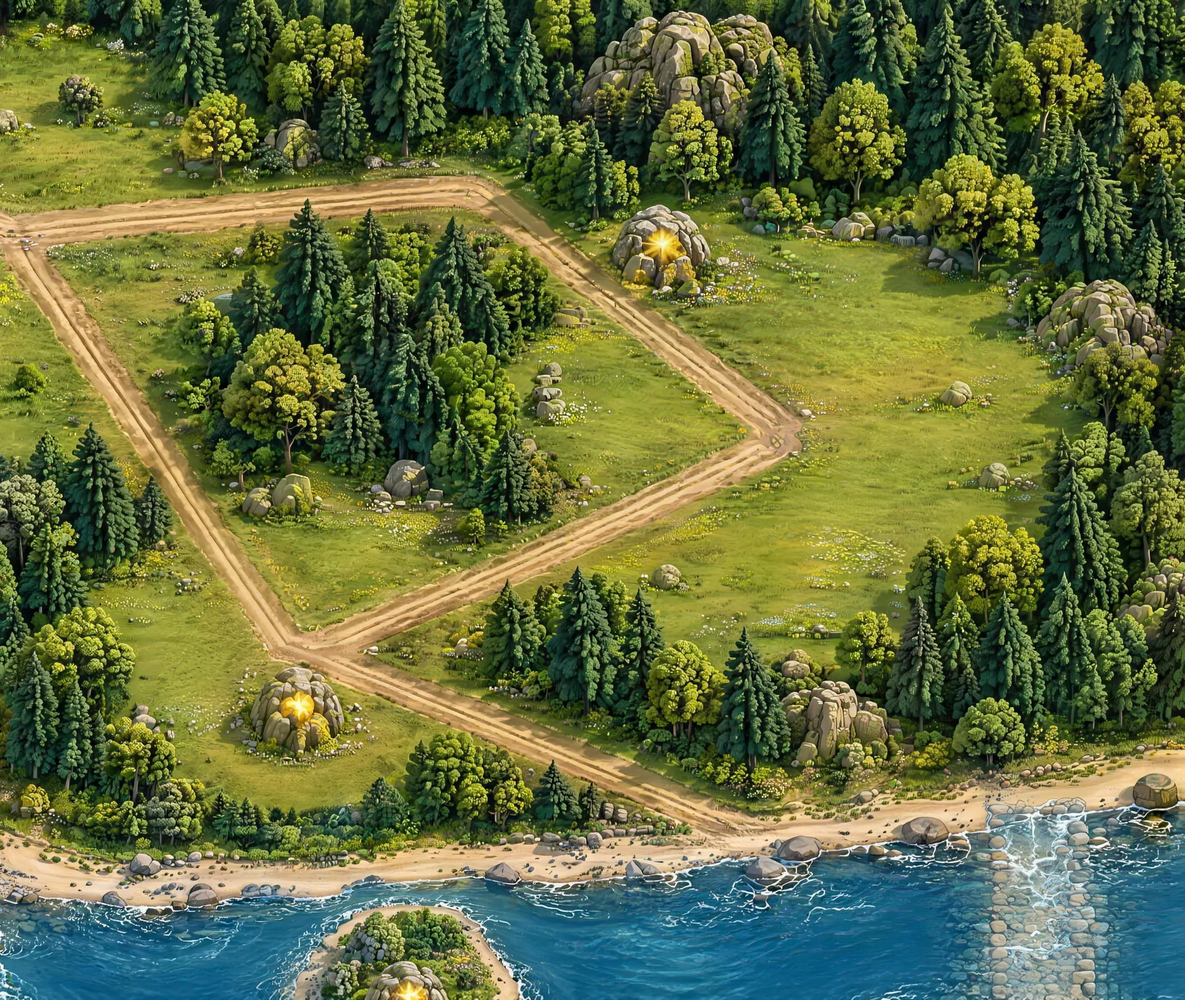
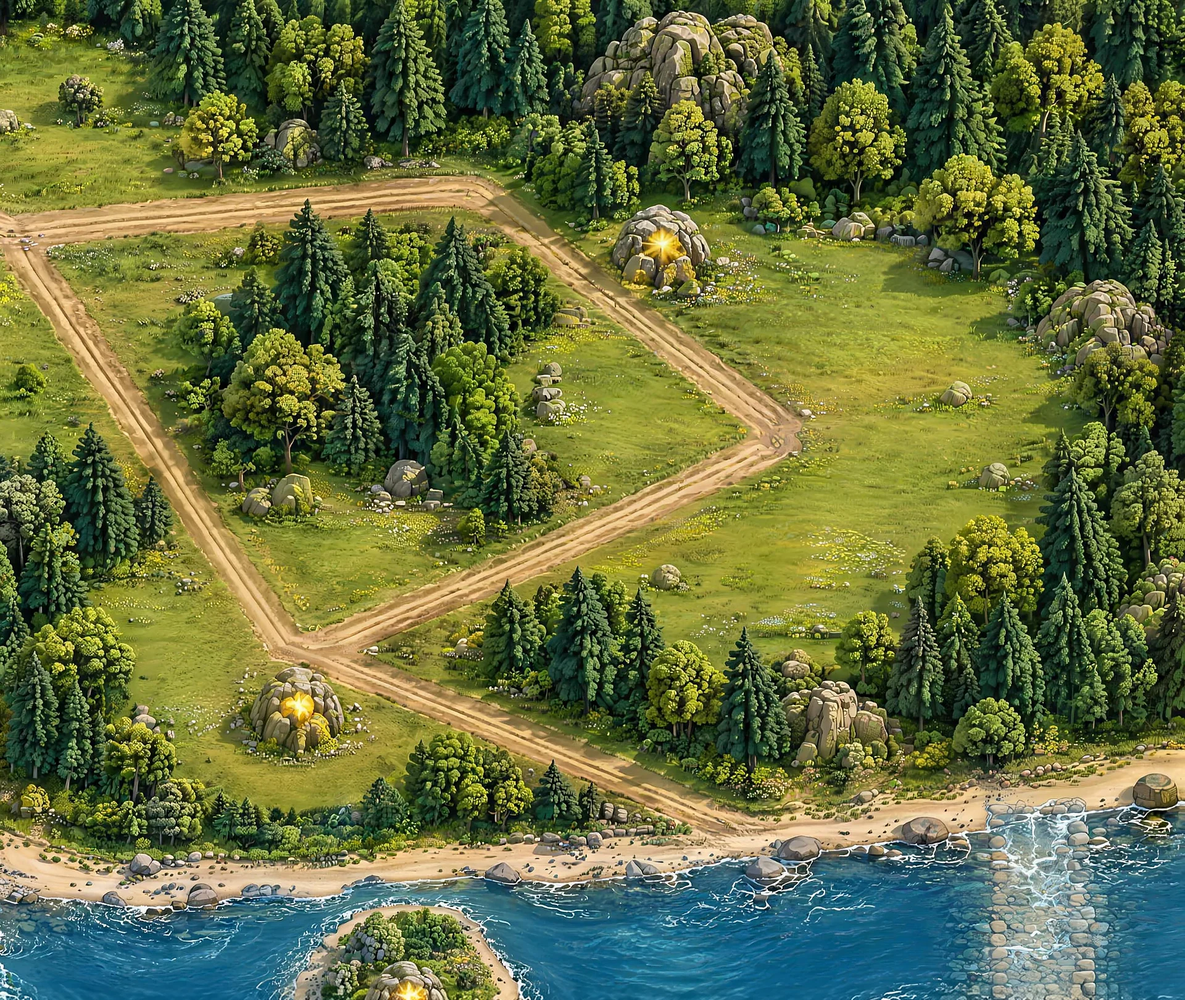
Online for up to 8 players, bridges at the crossings, Altar of the Myths, sharper map
- Lobby lists friends, host picks the total (computers fill free slots) and starts;
  stable per-tab ids keep slots on reconnect; eliminated players keep watching.
- Painted fords replaced by bridge sprites; only the deck is walkable.
- Central ruins hold the Altar of the Myths: capture it for gold, hold 8 min to win.
- Nav grid: open pockets inside forest closed; 8K map tiles on large screens.

Claude-Session: https://claude.ai/code/session_01FafVwhxwoacmC24jomjzsL

diff --git a/estrategia/prototype/index.html b/estrategia/prototype/index.html
@@ -190,7 +190,9 @@ const SPEED=.85;
 /* ---------- Assets ---------- */
 const SHEET={"villager":{"cw":136,"ch":177,"ax":63,"foot":175},"spear":{"cw":156,"ch":154,"ax":49,"foot":152},"spear3":{"cw":167,"ch":154,"ax":52,"foot":152},"archer":{"cw":134,"ch":180,"ax":57,"foot":178},"archer3":{"cw":122,"ch":167,"ax":47,"foot":165},"cav":{"cw":144,"ch":155,"ax":64,"foot":153},"legion":{"cw":170,"ch":155,"ax":58,"foot":153},"e-villager":{"cw":119,"ch":187,"ax":59,"foot":185},"e-spear":{"cw":181,"ch":154,"ax":52,"foot":152},"e-spear3":{"cw":180,"ch":154,"ax":51,"foot":152},"e-archer":{"cw":131,"ch":165,"ax":53,"foot":163},"e-archer3":{"cw":128,"ch":163,"ax":57,"foot":161},"e-lightcav":{"cw":174,"ch":177,"ax":88,"foot":175},"e-horsearcher":{"cw":163,"ch":167,"ax":81,"foot":165},"e-shaman":{"cw":141,"ch":177,"ax":66,"foot":175},"a-villager":{"cw":142,"ch":180,"ax":68,"foot":178},"a-spear":{"cw":170,"ch":154,"ax":50,"foot":152},"a-spear3":{"cw":171,"ch":154,"ax":50,"foot":152},"a-archer":{"cw":148,"ch":178,"ax":58,"foot":176},"a-archer3":{"cw":152,"ch":181,"ax":63,"foot":179},"a-khopesh":{"cw":169,"ch":158,"ax":54,"foot":156},"a-chariot":{"cw":174,"ch":179,"ax":80,"foot":177},"a-sunpriest":{"cw":210,"ch":203,"ax":47,"foot":201},"priestess":{"cw":147,"ch":202,"ax":62,"foot":200},"scorpion":{"cw":250,"ch":155,"ax":111,"foot":153},"ram":{"cw":187,"ch":154,"ax":89,"foot":152},"fishboat":{"cw":188,"ch":154,"ax":66,"foot":152},"galley":{"cw":166,"ch":161,"ax":77,"foot":159},"general":{"cw":242,"ch":161,"ax":121,"foot":159},"khan":{"cw":164,"ch":168,"ax":72,"foot":166},"queen":{"cw":223,"ch":198,"ax":56,"foot":196}};
 const BLD_KEYS=['tc','house','lumber','mine','farm','tower','barracks'];
-const IMG={}; const MAPT=[]; for (let j=0;j<2;j++) for (let i=0;i<3;i++) MAPT.push({k:'map8-'+i+j,i,j}); const NAMES=[...MAPT.map(t=>t.k+'.webp'),'map8-mini.jpg','ic-food.jpg','ic-wood.jpg','ic-gold.jpg','ic-pop.jpg','ic-build.jpg','ic-plan.jpg','key.jpg','gold2.webp','berry.webp','ground.webp','banner.webp',...['army','inf','arc','cav','area','city','retreat','stop','cancel','repeat','ageup','move','idle','plan2','rally','attack'].map(k=>'ui-'+k+'.webp'),'temple.webp','e-temple.webp','a-temple.webp','wall.webp','e-wall.webp','a-wall.webp','gate.webp','e-gate.webp','a-gate.webp','dock.webp','e-dock.webp','a-dock.webp',
+const IMG={}; // map tiles: sharper 8K set (4x2) on computers with a big screen, lighter 5.7K set (3x2) on phones
+const HDMAP=!matchMedia('(pointer:coarse)').matches && Math.max(screen.width,screen.height)*(devicePixelRatio||1)>=1600, MCOLS=HDMAP?4:3, MROWS=2;
+const MAPT=[]; for (let j=0;j<MROWS;j++) for (let i=0;i<MCOLS;i++) MAPT.push({k:(HDMAP?'map8hd-':'map8-')+i+j,i,j}); const NAMES=[...MAPT.map(t=>t.k+'.webp'),'map8-mini.jpg','ic-food.jpg','ic-wood.jpg','ic-gold.jpg','ic-pop.jpg','ic-build.jpg','ic-plan.jpg','key.jpg','gold2.webp','berry.webp','ground.webp','banner.webp','relic.webp','bridge-h.webp','bridge-v.webp',...['army','inf','arc','cav','area','city','retreat','stop','cancel','repeat','ageup','move','idle','plan2','rally','attack'].map(k=>'ui-'+k+'.webp'),'temple.webp','e-temple.webp','a-temple.webp','wall.webp','e-wall.webp','a-wall.webp','gate.webp','e-gate.webp','a-gate.webp','dock.webp','e-dock.webp','a-dock.webp',
   ...BLD_KEYS.flatMap(k=>[k,k+'3']).map(k=>k+'.webp'),
   ...['e-','a-'].flatMap(p=>BLD_KEYS.flatMap(k=>[p+k].concat(['tc','house','barracks','tower'].includes(k)?[p+k+'3']:[]))).map(k=>k+'.webp'),
   ...Object.keys(SHEET).flatMap(k=>[k+'-anim.webp','ic-'+k+'.webp'])];
@@ -257,8 +259,16 @@ const RATE={food:1.35,wood:1.25,gold:1.1}; // faster economy so there is time fo
 /* ---------- Terrain: river and forests block movement; cross the river only at the two fords ---------- */
 const NW=336, NH=189, NC=8*K; // cells of 8 map px
 const NAV=new Uint8Array(NW*NH); // 0 open, 1 forest, 2 water
[2 lines of base64/hex data omitted]
 // fords (3) are traced into the grid: shallow stony crossings at the four map edges, land units and boats both pass
+// bridges replace the painted stony fords: only the deck is walkable (3 = land units and boats both pass under/over)
+const BRIDGES=[{k:'bridge-h',x:2690,y:95,w:660,band:[2392,2988,40,150]},{k:'bridge-h',x:2690,y:2905,w:660,band:[2392,2988,2850,2960]},
+  {k:'bridge-v',x:205,y:1520,h:660,band:[150,262,1210,1830]},{k:'bridge-v',x:5171,y:1520,h:660,band:[5114,5226,1210,1830]}];
+for (let c=0;c<NAV.length;c++) if (NAV[c]===3) NAV[c]=2;
+for (const b of BRIDGES){ const [x0,x1,y0,y1]=b.band; for (let y=Math.floor(y0/NC);y<=Math.floor(y1/NC);y++) for (let x=Math.floor(x0/NC);x<=Math.floor(x1/NC);x++){ const c=y*NW+x; if (NAV[c]!==1) NAV[c]=3; } }
+// the Altar of the Myths stands in the centre of the ruins: whoever holds it earns gold, and holding it long enough wins
+const RELIC={x:2688,y:1452,r:46,cap:200,need:20,win:480};
+for (let y=0;y<NH;y++) for (let x=0;x<NW;x++){ if (Math.hypot((x+.5)*NC-RELIC.x,(y+.5)*NC-RELIC.y)<RELIC.r) NAV[y*NW+x]=1; }
 const NAV0=NAV.slice(); // pristine terrain, restored each game (chopping clears forest cells)
 const WOOD=new Float32Array(NW*NH), WOODOBJ=new Map(); let EDGES=null;
 const cellXY=c=>({x:(c%NW+.5)*NC,y:((c/NW|0)+.5)*NC});
@@ -320,15 +330,15 @@ const TUT=[
 function tutShow(){ const el=$('tut'); if (!G||!G.tut||G.tut.done){ el.hidden=true; return; } const st=TUT[G.tut.i]; el.hidden=false; el.innerHTML=`<div class="tr"><small>Tutorial · paso ${G.tut.i+1} de ${TUT.length}</small><button id="tutX">Saltar</button></div><div>${st.t}</div>`; $('tutX').onclick=tutEnd; }
 function tutEnd(){ if (!G||!G.tut) return; G.tut.done=true; for (const T of G.team) if (T.ai) T.next=G.t+90; $('tut').hidden=true; }
 function tutTick(){ if (!G||!G.tut||G.tut.done) return; const st=TUT[G.tut.i]; if (!st.ok()) return; G.tut.i++; G.tut.at=G.t; sfx('done'); if (G.tut.i>=TUT.length) return tutEnd(); if (TUT[G.tut.i].enter) TUT[G.tut.i].enter(); tutShow(); }
-function newGame(civ,tut,net,nPlayers){ audioOn(); sndBtn(); ME=net&&!net.host?1:0; if (!net) netClose();
-  civ=civ||'imperio'; const keys=Object.keys(CIV), N=net?2:tut?2:clamp(nPlayers||PLAYERS,2,8);
+function newGame(civ,tut,net,nPlayers){ audioOn(); sndBtn(); ME=net?(net.host?0:net.me|0):0; if (!net) netClose();
+  civ=civ||'imperio'; const keys=Object.keys(CIV), N=net?clamp(net.civs.length,2,8):tut?2:clamp(nPlayers||PLAYERS,2,8);
   const civs=net?net.civs.slice():[civ]; while (civs.length<N){ const o=keys.filter(k=>k!==civs[civs.length-1]); civs.push(o[Math.floor(Math.random()*o.length)]); }
-  const team=[]; for (let i=0;i<N;i++) team.push({res:{food:400,wood:450,gold:220},plan:{food:42,wood:35,gold:23,build:0},assist:true,age:2,ageT:0,ageUp:false,stance:'atk',wave:0,next:270+i*25,ai:!net&&i!==0,out:false,slot:i});
+  const team=[]; for (let i=0;i<N;i++) team.push({res:{food:400,wood:450,gold:220},plan:{food:42,wood:35,gold:23,build:0},assist:true,age:2,ageT:0,ageUp:false,stance:'atk',wave:0,next:270+i*25,ai:net?!!(net.ai&&net.ai[i]):i!==0,out:false,slot:i});
   G={civ:civs,N,online:!!net,beams:[],t:0,E:[],dead:[],projs:[],parts:[],texts:[],id:1,sel:[],selB:null,over:false,paused:false,team,
      cam:{x:470,y:670,z:1.05}, place:null, stats:{kills:0,lost:0}};
   if (!net || net.host){
   // resources
-  NAV.set(NAV0); DYN.fill(0); WOOD.fill(0); WOODOBJ.clear(); EDGES=null; G.cleared=[]; for (let c=0;c<NW*NH;c++) if (NAV[c]===1) WOOD[c]=70;
+  NAV.set(NAV0); DYN.fill(0); WOOD.fill(0); WOODOBJ.clear(); EDGES=null; G.cleared=[]; for (let c=0;c<NW*NH;c++) if (NAV[c]===1&&Math.hypot(cellXY(c).x-RELIC.x,cellXY(c).y-RELIC.y)>RELIC.r+8) WOOD[c]=70;
   for (const [x,y] of GOLDS) addRes('gold',x,y,3000); // 18 mines: one per home, expansions between homes, river islands and the centre
   { const pts=[]; for (let c=0;c<NW*NH;c++){ if (NAV[c]!==2) continue; const x=(c%NW+.5)*NC, y=((c/NW|0)+.5)*NC; if (y<120||y>WH-120) continue; let deep=true; for (const [dx,dy] of [[1,0],[-1,0],[0,1],[0,-1]]) if (NAV[c+dy*NW+dx]!==2) deep=false; if (deep && pts.every(q=>Math.hypot(q[0]-x,q[1]-y)>260)) pts.push([x,y]); }
     for (const [x,y] of pts) addRes('fish',x/K,y/K,450); }
@@ -342,7 +352,7 @@ function newGame(civ,tut,net,nPlayers){ audioOn(); sndBtn(); ME=net&&!net.host?1
     for (let i=0;i<2;i++) sp('archer',camp.x+dir*35,camp.y+rand(-30,30));
   }
   } else { NAV.set(NAV0); DYN.fill(0); WOOD.fill(0); WOODOBJ.clear(); EDGES=null; G.cleared=[]; }
-  fogReset();
+  fogReset(); G.relic={owner:-1,cap:-1,prog:0,held:0,warn:0};
   G.tut=tut?{i:0,at:0,cx:0,cy:0,cz:0,plan:false,cmd:false,done:false}:null;
   { const tc=G.E.find(e=>e.kind==='bld'&&e.type==='tc'&&e.team===ME)||{x:SLOTS[ME][0]*K,y:SLOTS[ME][1]*K}, r=$('app').getBoundingClientRect(); G.cam.z=clamp(r.height/560,1.05,1.5); G.cam.x=tc.x+(tc.x<WW/2?1:-1)*r.width/G.cam.z*.12; G.cam.y=tc.y+20; }
   resize(); $('topbar').hidden=false; $('tray').hidden=false; $('mini').hidden=false; $('screen').hidden=true;
@@ -478,15 +488,24 @@ function die(t,src){
   if (t.kind==='bld'){ rebuildDyn(); sfx('crash',t); if (t.type==='tc' && t.done) return eliminate(t.team); }
   G.sel=G.sel.filter(e=>e!==t); if (G.selB===t) G.selB=null;
 }
+function relicTick(dt){ const R=G.relic; if (!R||G.over) return;
+  const near=new Array(G.N).fill(0); for (const u of G.E) if (u.kind==='unit'&&u.hp>0&&!u.inBoat&&!u.D.boat&&Math.hypot(u.x-RELIC.x,u.y-RELIC.y)<RELIC.cap) near[u.team]++;
+  const here=near.map((n,i)=>n?i:-1).filter(i=>i>=0);
+  if (here.length===1 && here[0]!==R.owner){ const t=here[0]; if (R.cap!==t){ R.cap=t; R.prog=0; } R.prog+=dt/RELIC.need;
+    if (R.prog>=1){ R.owner=t; R.prog=0; R.cap=-1; R.held=0; R.warn=0; sfx('age'); for (let i=0;i<G.N;i++) notify(i,i===t?'¡Tomaste el Altar de los Mitos! Ganas oro, y si lo mantienes '+(RELIC.win/60)+' minutos, ganas la partida.':'¡'+TC_NAME[t]+' tomó el Altar de los Mitos en las ruinas del centro! Si lo mantiene '+(RELIC.win/60)+' minutos, gana.'); } }
+  else if (!here.length || here.length>1 || here[0]===R.owner) R.prog=Math.max(0,R.prog-dt/RELIC.need*(here.length>1?0:.5));
+  if (R.owner>=0){ if (G.team[R.owner].out){ R.owner=-1; return; } R.held+=dt; G.team[R.owner].res.gold+=1.2*dt;
+    if (R.held>RELIC.win-120 && !R.warn){ R.warn=1; for (let i=0;i<G.N;i++) if (i!==R.owner) notify(i,'¡Quedan 2 minutos: '+TC_NAME[R.owner]+' ganará con el Altar de los Mitos!'); }
+    if (R.held>=RELIC.win){ if (NET&&NET.host) NET.send('end',{win:R.owner,relic:1}); G.relicWin=1; endGame(R.owner===ME); } } }
 function eliminate(team){ // a player whose Town Center falls is out: the rest of their town crumbles
   const T=G.team[team]; if (!T||T.out) return; T.out=true;
   for (const e of G.E) if (e.team===team && e.hp>0 && e.kind!=='res'){ e.hp=0; if (e.kind==='unit') G.dead.push({kind:'dead',type:e.type,key:animKey(e),D:e.D,team:e.team,x:e.x,y:e.y,face:e.face,r:e.r,a:0,hp:1}); else burst(e.x,e.y,'#8a7a66',14,70); }
   rebuildDyn(); G.sel=G.sel.filter(e=>e.hp>0); if (G.selB&&G.selB.hp<=0) G.selB=null;
   const left=G.team.map((x,i)=>i).filter(i=>!G.team[i].out);
   if (team!==ME && G.N>2 && !G.team[ME].out) notify(ME,'¡'+TC_NAME[team]+' ('+CIV[G.civ[team]].n+') fue derrotado! Quedan '+left.length+' jugadores.');
-  if (NET&&NET.host&&left.length<=1) NET.send('end',{win:left[0],kills:G.stats.lost,lost:G.stats.kills});
-  if (team===ME) return endGame(false);
+  if (NET&&NET.host){ NET.send('out',{team}); if (left.length<=1) NET.send('end',{win:left[0]}); }
   if (left.length<=1) return endGame(left[0]===ME);
+  if (team===ME){ if (NET&&NET.started) { toast('Tu Centro urbano cayó: quedas fuera. Puedes seguir mirando la partida.'); sfx('lose'); return; } return endGame(false); }
 }
 function updUnit(u,dt){
   u.flash=Math.max(0,u.flash-dt); u.atk-=dt; u.bob+=dt*9; u.aT+=dt; u.work=Math.max(0,u.work-dt);
@@ -671,11 +690,11 @@ function aiTick(me){
 }
 
 /* ---------- Main loop ---------- */
-let plannerT=0, aiT=0;
+let plannerT=0, aiT=0, relicT=0;
 function update(dt){
   G.t+=dt; pathBudget=8; G.heroes=G.E.filter(e=>e.kind==='unit'&&e.D.hero&&e.hp>0);
   for (const e of G.E) if (e.kind==='unit'){ e.ox=e.x; e.oy=e.y; }
-  buildSpatial();
+  buildSpatial(); relicT=(relicT||0)-dt; if (relicT<=0){ relicTick(.5-relicT); relicT=.5; }
   plannerT-=dt; if (plannerT<=0){ plannerT=1; for (let i=0;i<G.N;i++) if (!G.team[i].out) planner(i); }
   aiT-=dt; if (aiT<=0){ aiT=2/Math.max(1,G.N-1); const ais=G.team.map((t,i)=>i).filter(i=>G.team[i].ai&&!G.team[i].out); if (ais.length){ G.aiI=((G.aiI||0)+1)%ais.length; aiTick(ais[G.aiI]); } }
   for (const e of G.E){ if (e.hp<=0 && e.kind!=='res') continue; if (e.kind==='unit') updUnit(e,dt*SPEED); else if (e.kind==='bld') updBld(e,dt); if (G.over) return; }
@@ -840,7 +859,7 @@ function draw(){
   clampCam(); const c=G.cam;
   ctx.setTransform(1,0,0,1,0,0); ctx.fillStyle='#0c0a07'; ctx.fillRect(0,0,cv.width,cv.height);
   ctx.setTransform(DPR*c.z,0,0,DPR*c.z,DPR*(SW/2-c.x*c.z),DPR*(SH/2-c.y*c.z));
-  ctx.imageSmoothingQuality='high'; { const tw=WW/3, th=WH/2, vx0=c.x-SW/2/c.z, vx1=c.x+SW/2/c.z, vy0=c.y-SH/2/c.z, vy1=c.y+SH/2/c.z; // map tiles, only those on screen
+  ctx.imageSmoothingQuality='high'; { const tw=WW/MCOLS, th=WH/MROWS, vx0=c.x-SW/2/c.z, vx1=c.x+SW/2/c.z, vy0=c.y-SH/2/c.z, vy1=c.y+SH/2/c.z; // map tiles, only those on screen
     for (const t of MAPT){ const x=t.i*tw, y=t.j*th; if (x>vx1||x+tw<vx0||y>vy1||y+th<vy0) continue; ctx.drawImage(IMG[t.k],x,y,tw+.6,th+.6); } }
   ctx.fillStyle='rgba(16,18,8,.12)'; ctx.fillRect(0,0,WW,WH);
   if (G.cleared.length){ if (!IMG.stump){ const k=document.createElement('canvas'); k.width=k.height=64; const g=k.getContext('2d'), gr=g.createRadialGradient(32,32,6,32,32,32); gr.addColorStop(0,'rgba(118,92,58,.95)'); gr.addColorStop(.6,'rgba(104,84,50,.8)'); gr.addColorStop(1,'rgba(90,74,44,0)'); g.fillStyle=gr; g.beginPath(); g.arc(32,32,32,0,7); g.fill(); IMG.stump=k;
@@ -848,8 +867,9 @@ function draw(){
     for (const q of G.cleared){ ctx.drawImage(IMG.stump,q.x-15,q.y-12,30,24); } for (const q of G.cleared) if (q.k<.55) ctx.drawImage(IMG.stump2,q.x-6+q.k*8,q.y-6,13,13); }
   for (const o of WOODOBJ.values()) if (o.prio){ ctx.fillStyle='#e7b54a'; ctx.fillRect(o.x,o.y-30,2,24); ctx.beginPath(); ctx.moveTo(o.x+2,o.y-30); ctx.lineTo(o.x+16,o.y-24); ctx.lineTo(o.x+2,o.y-18); ctx.fill(); }
   fogT-=1/60; if (fogT<=0){ fogT=.2; fogUpdate(); }
+  for (const b of BRIDGES){ const im=IMG[b.k]; if (!im||!im.naturalWidth) continue; const w=b.w||b.h*im.naturalWidth/im.naturalHeight, h=b.h||b.w*im.naturalHeight/im.naturalWidth; const dy=b.w?h*.24:h*.5; ctx.drawImage(im,b.x-w/2,b.y-dy,w,h); }
   const vx0=c.x-SW/2/c.z-120, vx1=c.x+SW/2/c.z+120, vy0=c.y-SH/2/c.z-120, vy1=c.y+SH/2/c.z+200, inView=e=>e.x>vx0&&e.x<vx1&&e.y>vy0&&e.y<vy1;
-  const objs=G.E.filter(e=>(e.hp>0||e.kind==='res')&&!e.inBoat&&inView(e)&&shown(e)).concat(G.dead.filter(d=>inView(d)&&(d.team===ME||seen(d)))).sort((a,b)=>a.y-b.y);
+  const objs=G.E.filter(e=>(e.hp>0||e.kind==='res')&&!e.inBoat&&inView(e)&&shown(e)).concat(G.dead.filter(d=>inView(d)&&(d.team===ME||seen(d)))).concat(G.relic&&known(RELIC)?[{kind:'relic',x:RELIC.x,y:RELIC.y+20}]:[]).sort((a,b)=>a.y-b.y);
   // selection rings below
   for (const e of G.sel){ const sc=e.D?usc(e.D,c.z):1; ctx.strokeStyle='#b6ff9a'; ctx.lineWidth=2.5/c.z; ctx.beginPath(); ctx.ellipse(e.x,e.y+2,e.r*sc*2.1+3,(e.r*sc*2.1+3)*.5,0,0,7); ctx.stroke(); }
   if (G.selB){ const b=G.selB; ctx.strokeStyle='#7bd88f'; ctx.lineWidth=2.5/c.z; ctx.beginPath(); ctx.ellipse(b.x,b.y,b.r+10,(b.r+10)*.55,0,0,7); ctx.stroke(); if (b.rally){ ctx.setLineDash([6/c.z,6/c.z]); ctx.beginPath(); ctx.moveTo(b.x,b.y); ctx.lineTo(b.rally.x,b.rally.y); ctx.stroke(); ctx.setLineDash([]); ctx.fillStyle='#7bd88f'; ctx.beginPath(); ctx.arc(b.rally.x,b.rally.y,5/c.z+2,0,7); ctx.fill(); } }
@@ -872,6 +892,14 @@ function draw(){
       if (!e.done) bar(e.x,e.y-h*.5,e.D.w*.6,e.prog,'#e7b54a');
       else if (e.hp<e.maxHp || G.selB===e) bar(e.x,e.y-h*.62,e.D.w*.55,e.hp/e.maxHp,tcol(e.team));
       if (e.queue.length && e.done) bar(e.x,e.y+e.r*.55+6,e.D.w*.5,e.queue[0]==='age'?e.qT/AGE_TIME:e.qT/UT[e.queue[0]].time,'#fff');
+    } else if (e.kind==='relic'){ const R=G.relic, own=R.owner, pulse=.5+.5*Math.sin(G.t*2.5); ctx.globalAlpha=1;
+      ctx.fillStyle=own>=0?trgba(own,.22+.12*pulse):'rgba(255,215,110,'+(.10+.08*pulse)+')'; ctx.beginPath(); ctx.ellipse(RELIC.x,RELIC.y+14,RELIC.cap*.55,RELIC.cap*.3,0,0,7); ctx.fill();
+      ctx.beginPath(); ctx.ellipse(RELIC.x,RELIC.y+14,RELIC.cap,RELIC.cap*.55,0,0,7); ctx.strokeStyle='rgba(0,0,0,.55)'; ctx.lineWidth=7; ctx.stroke();
+      ctx.setLineDash([16,12]); ctx.lineDashOffset=-G.t*14; ctx.strokeStyle=own>=0?tcol(own):'#ffd76a'; ctx.lineWidth=4; ctx.stroke(); ctx.setLineDash([]); ctx.lineDashOffset=0;
+      sprite('relic',RELIC.x,RELIC.y+34,170);
+      ctx.font='700 17px "Cormorant SC",Georgia,serif'; ctx.textAlign='center'; ctx.lineWidth=4; ctx.strokeStyle='rgba(0,0,0,.75)'; const lb=own>=0?'Altar de los Mitos · '+TC_NAME[own]:'Altar de los Mitos'; ctx.strokeText(lb,RELIC.x,RELIC.y-176); ctx.fillStyle=own>=0?tcol(own):'#ffe7a0'; ctx.fillText(lb,RELIC.x,RELIC.y-176);
+      if (R.prog>0&&R.cap>=0) bar(RELIC.x,RELIC.y-150,110,R.prog,tcol(R.cap));
+      if (own>=0) bar(RELIC.x,RELIC.y-160,90,R.held/RELIC.win,tcol(own));
     } else if (e.kind==='dead'){
       const D=e.D, sc=usc(D,c.z), f=unitFrame(e), fall=Math.min(1,e.a/.45);
       ctx.save(); ctx.globalAlpha=clamp((2.2-e.a)/1.2,0,1); ctx.translate(e.x,e.y+2); if (e.face<0) ctx.scale(-1,1); ctx.rotate(-fall*fall*1.35);
@@ -981,7 +1009,7 @@ function pick(w){
 const ref=h=>!h?null:h.cell!==undefined?{c:h.cell}:{id:h.id};
 const byId=id=>G.E.find(e=>e.id===id&&(e.hp>0||e.kind==='res'));
 const resolve=r=>!r?null:r.c!==undefined?(NAV[r.c]===1?woodObj(r.c):null):byId(r.id)||null;
-function act(a){ if (NET && !NET.host){ NET.send('act',a); return; } runAct(ME,a); }
+function act(a){ if (NET && !NET.host){ NET.send('act',{t:ME,a}); return; } runAct(ME,a); }
 function runAct(team,a){
   if (!G||G.over||!a||typeof a.a!=='string') return;
   const mine=ids=>(Array.isArray(ids)?ids:[]).map(byId).filter(e=>e&&e.kind==='unit'&&e.team===team);
@@ -1007,7 +1035,7 @@ function runAct(team,a){
     case 'stop': for (const u of mine(a.ids)){ u.state='idle'; u.target=null; u.home={x:u.x,y:u.y}; } break;
     case 'stance': { const ns=a.s==='def'?'def':'atk'; for (const u of mine(a.ids)){ u.stance=ns; u.home={x:u.x,y:u.y}; } G.team[team].stance=ns; break; }
     case 'prio': { const h=resolve(a.h); if (h&&h.kind==='res') h.prio=!h.prio; break; }
-    case 'pause': if (NET&&NET.host){ G.paused=!G.paused; $('bPause').textContent=G.paused?'▶':'II'; toast(G.paused?'Tu rival pausó el juego':'Continúa'); } break;
+    case 'pause': if (NET&&NET.host){ G.paused=!G.paused; $('bPause').textContent=G.paused?'▶':'II'; toast(G.paused?TC_NAME[team]+' pausó el juego':'Continúa'); } break;
   }
   if (team===ME) renderTray();
 }
@@ -1174,7 +1202,8 @@ $('bPause').onclick=()=>{ if (!G||G.over) return; if (NET&&!NET.host){ act({a:'p
 function hud(){
   const T=G.team[ME]; $('rF').textContent=Math.floor(T.res.food); $('rW').textContent=Math.floor(T.res.wood); $('rG').textContent=Math.floor(T.res.gold);
   const pop=units(ME).length, cap=capOf(ME); $('rP').textContent=pop+'/'+cap; $('rP').style.color=pop>=cap?'var(--red)':'';
-  const s=Math.floor(G.t); $('ageL').textContent=(T.age>=3?'Hierro':'Bronce')+' · '+Math.floor(s/60)+':'+String(s%60).padStart(2,'0');
+  const s=Math.floor(G.t); let rl=''; const R=G.relic; if (R&&R.owner>=0){ const left=Math.max(0,Math.ceil(RELIC.win-R.held)); rl=' · Altar: '+TC_NAME[R.owner]+' '+Math.floor(left/60)+':'+String(left%60).padStart(2,'0'); }
+  $('ageL').textContent=(T.age>=3?'Hierro':'Bronce')+' · '+Math.floor(s/60)+':'+String(s%60).padStart(2,'0')+rl; $('ageL').style.color=R&&R.owner>=0?tcol(R.owner):'';
 }
 
 /* ---------- Online 1v1 (website only): Supabase Realtime broadcast. The host's browser runs the game and sends
@@ -1184,34 +1213,49 @@ const ONLINE_OK=location.protocol==='https:'&&!/claude(usercontent)?\.(ai|com)$/
 const UTYPES=Object.keys(UT), BTYPES=Object.keys(BT), STATES=['idle','move','attack','flee','board'], JOBI=[null,'food','wood','gold','build'];
 function loadScript(src){ return new Promise((res,rej)=>{ if (window.supabase) return res(); const t=document.createElement('script'); t.src=src; t.onload=res; t.onerror=()=>rej(new Error('script')); document.head.appendChild(t); }); }
 function netClose(){ if (!NET) return; try { NET.ch.unsubscribe(); NET.sb.removeAllChannels(); } catch(e){} clearInterval(NET.hello); NET=null; }
+const PID=Math.random().toString(36).slice(2,8), JOINT=Date.now(); // this browser tab in the room (stays the same when it reconnects)
 async function netOpen(code,host,civ,onState){
   netClose(); await loadScript('vendor/supabase-2.118.0.js');
   const sb=supabase.createClient(NETCFG.url,NETCFG.key,{auth:{persistSession:false},realtime:{params:{eventsPerSecond:40}}});
-  const ch=sb.channel('mitos-'+code,{config:{broadcast:{self:false,ack:false},presence:{key:(host?'host-':'guest-')+Math.random().toString(36).slice(2,8)}}});
-  NET={sb,ch,host,code,civ,sentCl:0,gotCl:0,beams:[],texts:[],deaths:[],acc:0,needFull:true,started:false,rival:false,last:0};
+  const ch=sb.channel('mitos-'+code,{config:{broadcast:{self:false,ack:false},presence:{key:(host?'host-':'guest-')+PID}}});
+  NET={sb,ch,host,code,civ,sentCl:0,gotCl:0,beams:[],texts:[],deaths:[],acc:0,needFull:true,started:false,last:0,guests:[],map:null,present:new Set(),onState};
   NET.send=(event,payload)=>{ try { ch.send({type:'broadcast',event,payload}); } catch(e){} };
+  const startMsg=()=>NET.start&&NET.send('start',NET.start);
   ch.on('broadcast',{event:'s'},({payload})=>{ if (!NET.host && G && NET.started) applySnap(payload); })
-    .on('broadcast',{event:'act'},({payload})=>{ if (NET.host && G && NET.started) runAct(1,payload); })
+    .on('broadcast',{event:'act'},({payload})=>{ if (!NET.host||!G||!NET.started||!payload) return; const t=payload.t|0; if (t>0 && t<G.N && !G.team[t].ai && !G.team[t].out) runAct(t,payload.a); })
     .on('broadcast',{event:'full'},()=>{ if (NET.host) NET.needFull=true; })
     .on('broadcast',{event:'toast'},({payload})=>{ if (!NET.host && payload && typeof payload.m==='string') toast(payload.m.slice(0,160)); })
-    .on('broadcast',{event:'hello'},({payload})=>{ if (NET.host && !NET.started && payload && CIV[payload.civ]){ NET.started=true; const civs=[NET.civ,payload.civ]; NET.send('start',{civs}); newGame(NET.civ,false,{host:true,civs}); } })
-    .on('broadcast',{event:'start'},({payload})=>{ if (!NET.host && !NET.started && payload && Array.isArray(payload.civs) && payload.civs.every(c=>CIV[c])){ NET.started=true; clearInterval(NET.hello); newGame(payload.civs[1],false,{host:false,civs:payload.civs}); } })
-    .on('broadcast',{event:'end'},({payload})=>{ if (!NET.host && G && !G.over && payload){ G.stats={kills:payload.kills|0,lost:payload.lost|0}; endGame(payload.win===ME); } })
-    .on('presence',{event:'sync'},()=>{ const st=ch.presenceState(), keys=Object.keys(st), other=keys.some(k=>k.startsWith(host?'guest-':'host-'));
-      // the guest says its civilization in presence too, so the match starts even if the first hello was missed
-      if (host && !NET.started){ const gk=keys.find(k=>k.startsWith('guest-')), gp=gk&&st[gk]&&st[gk][0]; if (gp&&CIV[gp.civ]){ NET.started=true; const civs=[NET.civ,gp.civ]; NET.send('start',{civs}); newGame(NET.civ,false,{host:true,civs}); return; } }
-      if (NET.rival && !other && G && !G.over && NET.started){ toast('Tu rival se desconectó'); if (NET.host){ G.paused=true; $('bPause').textContent='▶'; } }
-      if (!NET.rival && other && G && NET.started) toast('Tu rival está conectado');
-      NET.rival=other; onState&&onState(other); });
+    .on('broadcast',{event:'hello'},({payload})=>{ if (NET.host && NET.started && payload && NET.map && NET.map[payload.pid]!==undefined) startMsg(); })
+    .on('broadcast',{event:'start'},({payload})=>{ if (NET.host||NET.started||!payload||!Array.isArray(payload.civs)||!payload.civs.every(c=>CIV[c])||!payload.map) return;
+      const me=payload.map[PID]; if (me===undefined){ NET.late=true; onState&&onState(NET.guests); return; }
+      NET.started=true; clearInterval(NET.hello); newGame(payload.civs[me],false,{host:false,civs:payload.civs,ai:payload.ai,me}); })
+    .on('broadcast',{event:'out'},({payload})=>{ if (NET.host||!G||!payload) return; const t=payload.team|0; if (G.team[t]) G.team[t].out=true; if (t===ME){ toast('Tu Centro urbano cayó: quedas fuera. Puedes seguir mirando la partida.'); sfx('lose'); } else if (G.team[t]) notify(ME,'¡'+TC_NAME[t]+' fue derrotado!'); })
+    .on('broadcast',{event:'end'},({payload})=>{ if (!NET.host && G && !G.over && payload){ G.relicWin=!!payload.relic; endGame(payload.win===ME); } })
+    .on('presence',{event:'sync'},()=>{ const st=ch.presenceState(), keys=Object.keys(st);
+      NET.guests=keys.filter(k=>k.startsWith('guest-')).map(k=>({pid:k.slice(6),civ:(st[k][0]||{}).civ,t:(st[k][0]||{}).t||0})).filter(g=>CIV[g.civ]).sort((a,b)=>a.t-b.t);
+      const now=new Set(keys.map(k=>k.replace(/^(host|guest)-/,''))), hostOn=keys.some(k=>k.startsWith('host-'));
+      if (G && NET.started && !G.over){
+        if (NET.map) for (const [pid,slot] of Object.entries(NET.map)){ if (NET.present.has(pid)&&!now.has(pid)) toast(TC_NAME[slot]+' se desconectó'); if (!NET.present.has(pid)&&now.has(pid)&&NET.present.size) toast(TC_NAME[slot]+' volvió'); }
+        if (!host && NET.hostOn && !hostOn) toast('El anfitrión se desconectó: la partida sigue cuando vuelva');
+        if (!host && !NET.hostOn && hostOn && NET.present.size) toast('El anfitrión volvió');
+      }
+      NET.present=now; NET.hostOn=hostOn; onState&&onState(NET.guests); });
   await new Promise((res,rej)=>{ const to=setTimeout(()=>rej(new Error('sin respuesta del servidor')),20000); ch.subscribe(st=>{ if (st==='SUBSCRIBED'){ clearTimeout(to); res(); } else if (st==='CHANNEL_ERROR'||st==='TIMED_OUT'||st==='CLOSED'){ clearTimeout(to); rej(new Error(st)); } }); });
-  await ch.track({role:host?'host':'guest',civ});
-  if (!host){ const hi=()=>NET&&!NET.started&&NET.send('hello',{civ}); hi(); NET.hello=setInterval(hi,1200); }
+  await ch.track({role:host?'host':'guest',civ,t:JOINT});
+  if (!host){ const hi=()=>NET&&!NET.started&&NET.send('hello',{pid:PID,civ}); hi(); NET.hello=setInterval(hi,1500); }
+}
+function netStart(total){ // host: friends in the order they joined take slots 1..k, computers fill the rest
+  if (!NET||!NET.host||NET.started) return; const gs=NET.guests.slice(0,7), N=clamp(Math.max(total,gs.length+1),2,8), keys=Object.keys(CIV);
+  const civs=[NET.civ], ai=[false], map={}; gs.forEach((g,i)=>{ civs.push(g.civ); ai.push(false); map[g.pid]=i+1; });
+  while (civs.length<N){ civs.push(keys[Math.floor(Math.random()*keys.length)]); ai.push(true); }
+  NET.map=map; NET.start={civs,ai,map}; NET.started=true; NET.send('start',NET.start); let k=0; const rs=setInterval(()=>{ if (++k>4||!NET) return clearInterval(rs); NET.send('start',NET.start); },900);
+  newGame(NET.civ,false,{host:true,civs,ai,me:0});
 }
 document.addEventListener('visibilitychange',async()=>{
   if (document.hidden||!NET) return; const st=NET.ch&&NET.ch.state;
   if (st==='joined'){ if (!NET.host&&NET.started) NET.send('full',{}); return; }
   const {code,host,civ,started}=NET, keep=NET; toast('Reconectando…');
-  try { await netOpen(code,host,civ); NET.started=started; if (!host&&started){ NET.got=keep.got; NET.gotCl=keep.gotCl; NET.send('full',{}); } toast('Conectado de nuevo'); }
+  try { const {map,start}=keep; await netOpen(code,host,civ,keep.onState); NET.started=started; NET.map=map; NET.start=start; if (!host&&started){ NET.got=keep.got; NET.gotCl=keep.gotCl; NET.send('full',{}); } toast('Conectado de nuevo'); }
   catch(e){ toast('No se pudo reconectar: revisa tu internet'); }
 });
 function snap(full){
@@ -1223,14 +1267,14 @@ function snap(full){
   }
   const from=full?0:NET.sentCl, cl=G.cleared.slice(from).map(q=>cellOf(q.x,q.y)); NET.sentCl=G.cleared.length;
   return {t:Math.round(G.t*100)/100,u,b,r,cl,cf:from,pz:G.paused?1:0,
-    T:G.team.map(t=>[Math.floor(t.res.food),Math.floor(t.res.wood),Math.floor(t.res.gold),t.age,t.ageUp?1:0,t.assist?1:0,t.stance==='def'?1:0,JOBS.map(k=>Math.round(t.plan[k]))]),
+    T:G.team.map(t=>[Math.floor(t.res.food),Math.floor(t.res.wood),Math.floor(t.res.gold),t.age,t.ageUp?1:0,t.assist?1:0,t.stance==='def'?1:0,JOBS.map(k=>Math.round(t.plan[k])),t.out?1:0]),
     p:G.projs.slice(0,60).map(q=>[Math.round(q.x),Math.round(q.y),Math.round(q.t.x),Math.round(q.t.y-12),q.spd]),
-    bm:NET.beams.splice(0),tx:NET.texts.splice(0),dd:NET.deaths.splice(0)};
+    rl:G.relic?[G.relic.owner,G.relic.cap,Math.round(G.relic.prog*100),Math.round(G.relic.held)]:0,bm:NET.beams.splice(0),tx:NET.texts.splice(0),dd:NET.deaths.splice(0)};
 }
 function applySnap(s){
   if (!s||!Array.isArray(s.u)) return; const now=performance.now(), first=!NET.got; NET.got=true;
-  G.t=+s.t||G.t; G.paused=!!s.pz; $('bPause').textContent=G.paused?'▶':'II';
-  if (Array.isArray(s.T)) s.T.forEach((v,i)=>{ const t=G.team[i]; if (!t||!Array.isArray(v)) return; t.res={food:v[0],wood:v[1],gold:v[2]}; t.age=v[3]; t.ageUp=!!v[4]; if (i!==ME||$('sheet').hidden) t.assist=!!v[5]; t.stance=v[6]?'def':'atk'; if (Array.isArray(v[7])&&$('sheet').hidden) JOBS.forEach((k,j)=>t.plan[k]=v[7][j]); });
+  G.t=+s.t||G.t; G.paused=!!s.pz; if (Array.isArray(s.rl)&&G.relic){ const R=G.relic, was=R.owner; R.owner=s.rl[0]; R.cap=s.rl[1]; R.prog=s.rl[2]/100; R.held=s.rl[3]; if (was!==R.owner&&R.owner>=0) notify(ME,R.owner===ME?'¡Tomaste el Altar de los Mitos!':'¡'+TC_NAME[R.owner]+' tomó el Altar de los Mitos!'); } $('bPause').textContent=G.paused?'▶':'II';
+  if (Array.isArray(s.T)) s.T.forEach((v,i)=>{ const t=G.team[i]; if (!t||!Array.isArray(v)) return; t.res={food:v[0],wood:v[1],gold:v[2]}; t.age=v[3]; t.ageUp=!!v[4]; if (i!==ME||$('sheet').hidden) t.assist=!!v[5]; t.stance=v[6]?'def':'atk'; if (Array.isArray(v[7])&&$('sheet').hidden) JOBS.forEach((k,j)=>t.plan[k]=v[7][j]); t.out=!!v[8]; });
   // wood clearings arrive as a growing list; ask for the whole list if we missed a piece
   if (s.cf>NET.gotCl) NET.send('full',{}); else { for (let i=NET.gotCl-s.cf;i<s.cl.length;i++){ const c=s.cl[i]; if (c>=0&&NAV[c]===1){ const q=cellXY(c); NAV[c]=0; G.cleared.push({x:q.x,y:q.y,a:0,k:Math.random()}); } } NET.gotCl=Math.max(NET.gotCl,s.cf+s.cl.length); EDGES=null; }
   const old=new Map(G.E.map(e=>[e.id,e])), E=[]; let bchg=false;
@@ -1265,21 +1309,27 @@ function guestFrame(dt){ // smooth movement between snapshots and keep animation
   if (!G.paused) G.t+=dt;
 }
 function showOnline(code){
-  const s=$('screen'); s.hidden=false; let civ='imperio';
-  s.innerHTML=`<div class="wrap"><h1 class="logo">En línea</h1><p class="sub">Partida 1 contra 1 con un amigo</p>
+  const s=$('screen'); s.hidden=false; let civ='imperio', total=Math.max(2,PLAYERS);
+  s.innerHTML=`<div class="wrap"><h1 class="logo">En línea</h1><p class="sub">Hasta 8 jugadores en el mapa Gran Río · amigos y computadoras</p>
     <div class="civs" id="ocivs">${Object.entries(CIV).map(([k,c])=>`<button class="civb${k===civ?' tutb':''}" data-oc="${k}"><img alt="" src="${IMG['ic-'+(c.p||'')+'spear'].src}"><span><b>${c.n}</b><small>${c.d}</small></span></button>`).join('')}</div>
-    <div class="card" id="ostat">${code?`Código de la partida: <b>${code}</b>. Elige tu civilización y toca Unirme.`:'Elige tu civilización. Luego crea una partida y pasa el código a tu amigo, o únete con su código.'}</div>
+    <div class="card" id="ostat">${code?`Código de la partida: <b>${code}</b>. Elige tu civilización y toca Unirme.`:'Elige tu civilización. Luego crea una partida y pasa el enlace a tus amigos, o únete con un código.'}</div>
+    <div class="card" id="olist" hidden></div>
     <div class="orow"><button class="play" id="ohost">${code?'Unirme':'Crear partida'}</button>${code?'':`<input id="ocode" maxlength="5" placeholder="CÓDIGO" aria-label="Código de la partida" autocomplete="off"><button class="play alt" id="ojoin">Unirme</button>`}</div>
     <button class="civb" id="oback"><span><b>Volver</b></span></button></div>`;
   for (const el of s.querySelectorAll('[data-oc]')) el.onclick=()=>{ civ=el.dataset.oc; for (const o of s.querySelectorAll('[data-oc]')) o.classList.toggle('tutb',o===el); };
   const stat=m=>$('ostat').innerHTML=m;
+  const list=(gs,host)=>{ const L=$('olist'); if (!L) return; L.hidden=false; const n=host?Math.max(total,gs.length+1):gs.length+1;
+    const rows=[`<li><b style="color:${tcol(0)}">${TC_NAME[0]}</b> · ${host?'Tú':'Anfitrión'} (${CIV[NET.host?NET.civ:'imperio']&&host?CIV[NET.civ].n:'…'})</li>`].concat(gs.slice(0,7).map((g,i)=>`<li><b style="color:${tcol(i+1)}">${TC_NAME[i+1]}</b> · ${!host&&g.pid===PID?'Tú':'Amigo '+(i+1)} (${CIV[g.civ].n})</li>`));
+    for (let i=gs.length+1;i<n;i++) rows.push(`<li><b style="color:${tcol(i)}">${TC_NAME[i]}</b> · Computadora</li>`);
+    L.innerHTML=`<b>Jugadores (${n})</b><ul>${rows.join('')}</ul>`+(host?`<div class="pls">${[2,3,4,5,6,7,8].map(k=>`<button class="plb${k===n?' on':''}" data-ot="${k}"${k<gs.length+1?' disabled':''}>${k}</button>`).join('')}<small>total de jugadores: los lugares sin amigo los juega la computadora</small></div><button class="play" id="ostart"${gs.length?'':' disabled'}>Empezar partida</button>${gs.length?'':'<small style="display:block;margin-top:4px">Espera a que entre al menos un amigo.</small>'}`:`<small>Esperando a que el anfitrión empiece la partida…</small>`);
+    if (host){ for (const el of L.querySelectorAll('[data-ot]')) el.onclick=()=>{ total=+el.dataset.ot; list(NET.guests,true); }; const st=$('ostart'); if (st) st.onclick=()=>netStart(total); } };
   const join=async c=>{ c=(c||'').toUpperCase().replace(/[^A-Z0-9]/g,''); if (c.length<4){ stat('Escribe el código de 4 letras que te pasó tu amigo.'); return; }
-    stat('Conectando…'); try { await netOpen(c,false,civ); stat('Conectado. Esperando a que tu amigo tenga abierta la página del juego… Si él cambió de app, pídele que vuelva a Mitos.'); }
+    stat('Conectando…'); try { await netOpen(c,false,civ,gs=>{ if (NET&&NET.late){ stat('Esa partida ya empezó sin ti. Pide a tu amigo que cree otra.'); return; } list(gs,false); }); stat('Conectado. Si el anfitrión cambió de app, pídele que vuelva a Mitos.'); }
     catch(e){ stat('No se pudo conectar ('+e.message+'). Revisa tu internet y el código. <button class="civb" id="oretry"><span><b>Reintentar</b></span></button>'); $('oretry').onclick=()=>join(c); } };
   $('ohost').onclick=async()=>{ audioOn(); if (MOBILE) goFull(); if (code) return join(code);
     const c=Array.from({length:4},()=>'ABCDEFGHJKLMNPQRSTUVWXYZ'[Math.floor(Math.random()*24)]).join(''), link=location.origin+location.pathname+'?p='+c;
-    stat('Conectando…'); try { await netOpen(c,true,civ,on=>{ if (on&&!NET.started) stat('¡Tu amigo entró! Empezando…'); });
-      stat(`Código: <b style="font-size:20px;letter-spacing:.15em">${c}</b><br>Pásale este enlace a tu amigo: <b id="olink" style="user-select:all;word-break:break-all">${link}</b><br><span class="orow" style="margin-top:6px">${navigator.share?'<button class="civb tutb" id="oshare"><span><b>Compartir (WhatsApp…)</b></span></button>':''}<button class="civb" id="ocopy"><span><b>Copiar enlace</b></span></button></span>Esperando a tu amigo… Después de compartir, <b>vuelve a esta pantalla</b>: la partida empieza cuando tu amigo entre.`);
+    stat('Conectando…'); try { await netOpen(c,true,civ,gs=>list(gs,true)); list([],true);
+      stat(`Código: <b style="font-size:20px;letter-spacing:.15em">${c}</b><br>Pásale este enlace a tus amigos: <b id="olink" style="user-select:all;word-break:break-all">${link}</b><br><span class="orow" style="margin-top:6px">${navigator.share?'<button class="civb tutb" id="oshare"><span><b>Compartir (WhatsApp…)</b></span></button>':''}<button class="civb" id="ocopy"><span><b>Copiar enlace</b></span></button></span>Después de compartir, <b>vuelve a esta pantalla</b>. Cuando tus amigos aparezcan en la lista, toca <b>Empezar partida</b>.`);
       $('ocopy').onclick=()=>{ navigator.clipboard?.writeText(link).then(()=>toast('Enlace copiado'),()=>toast('Mantén presionado el enlace para copiarlo')); };
       if ($('oshare')) $('oshare').onclick=()=>{ navigator.share({title:'Mitos',text:'¡Juguemos Mitos! Entra con este enlace (código '+c+'):',url:link}).catch(()=>{}); };
     } catch(e){ stat('No se pudo crear la partida ('+e.message+'). Revisa tu internet. <button class="civb" id="oretry"><span><b>Reintentar</b></span></button>'); $('oretry').onclick=()=>$('ohost').click(); } };
@@ -1304,7 +1354,7 @@ function showStart(){
   const s=$('screen'); s.style.setProperty('--bg',`url("${IMG.key.src}")`); s.hidden=false;
   s.innerHTML=`<div class="wrap"><h1 class="logo">Mitos</h1><p class="sub">Mapa Gran Río · elige cuántos jugadores y tu civilización</p>
     <div class="pls" role="group" aria-label="Jugadores">${[2,3,4,5,6,7,8].map(n=>`<button class="plb${n===PLAYERS?' on':''}" data-pl="${n}">${n}</button>`).join('')}<small>jugadores (tú + ${PLAYERS-1} ${PLAYERS===2?'computadora':'computadoras'}, todos contra todos)</small></div>
-    ${ONLINE_OK?`<button class="civb tutb" id="onGo"><span><b>Jugar en línea</b><small>1 contra 1 con un amigo, cada uno en su celular o computadora.</small></span></button>`:''}
+    ${ONLINE_OK?`<button class="civb tutb" id="onGo"><span><b>Jugar en línea</b><small>Hasta 8 jugadores: tus amigos, cada uno en su celular o computadora, y la computadora en los lugares que sobren.</small></span></button>`:''}
     ${fullTip()}
     <button class="civb tutb" id="tutGo"><span><b>Tutorial</b><small>Aprende a jugar paso a paso con el Imperio Áureo. El enemigo no ataca hasta que termines.</small></span></button>
     <div class="civs">${Object.entries(CIV).map(([k,c])=>`<button class="civb" data-civ="${k}"><img alt="" src="${IMG['ic-'+(c.p||'')+'spear'].src}"><span><b>${c.n}</b><small>${c.d}</small></span></button>`).join('')}</div>
@@ -1312,7 +1362,7 @@ function showStart(){
       <li><b>Un dedo</b> mueve el mapa, <b>dos dedos</b> hacen zoom. <b>Toca</b> una tropa y luego <b>toca el mapa</b> para mandarla; <b>doble toque</b> elige todas las de ese tipo.</li>
       <li>Tus aldeanos trabajan solos según el <b>Plan</b>. Construye <b>torres</b>, <b>murallas</b> con <b>puertas</b>, un <b>templo</b> para sacerdotes con poderes y un <b>muelle</b> junto al río para pescar y tener galeras. </li>
       ${matchMedia('(pointer:fine)').matches?`<li><b>En computadora:</b> <b>arrastra</b> para mover el mapa (en el trackpad, desliza con dos dedos), clic para elegir (Shift suma), <b>Shift + arrastrar</b> o el botón Área para encerrar tropas, <b>clic derecho</b> para mandar, rueda o pellizco para zoom, flechas o WASD también mueven el mapa. Atajos: <b>B</b> construir, <b>P</b> plan, <b>H</b> ciudad, <b>Q</b> aldeanos sin trabajo, <b>1-4</b> grupos, <b>Espacio</b> pausa, <b>M</b> silencio, <b>Esc</b> cancelar.</li>`:''}
-      <li>En la <b>Edad del Hierro</b> tus soldados y edificios mejoran y aparecen tropas nuevas. El mapa empieza <b>oculto</b>: explora para ver. Si cae tu <b>Centro urbano</b> quedas fuera; gana el último en pie. A las <b>islas</b> se llega en barco de transporte.</li>
+      <li>En la <b>Edad del Hierro</b> tus soldados y edificios mejoran y aparecen tropas nuevas. El mapa empieza <b>oculto</b>: explora para ver. Si cae tu <b>Centro urbano</b> quedas fuera; gana el último en pie. A las <b>islas</b> se llega en barco de transporte. En las ruinas del centro está el <b>Altar de los Mitos</b>: quien lo tome gana oro, y si lo mantiene 8 minutos gana la partida.</li>
     </ul></div></div>`;
   if ($('fsGo')) $('fsGo').onclick=goFull; for (const el of s.querySelectorAll('[data-civ]')) el.onclick=()=>{ if (MOBILE) goFull(); newGame(el.dataset.civ,false,null,PLAYERS); };
   for (const el of s.querySelectorAll('[data-pl]')) el.onclick=()=>{ PLAYERS=+el.dataset.pl; try { localStorage.setItem('mitos-players',PLAYERS); } catch(e){} showStart(); }; $('tutGo').onclick=()=>newGame('imperio',true); if ($('onGo')) $('onGo').onclick=()=>showOnline(); resize();
@@ -1320,7 +1370,7 @@ function showStart(){
 function endGame(won){
   G.over=true; sfx(won?'win':'lose');
   setTimeout(()=>{ const s=$('screen'); s.hidden=false; const t=Math.floor(G.t);
-    s.innerHTML=`<div class="wrap"><h1 class="logo" style="color:${won?'#f7dfa4':'#ff8a7a'}">${won?'Victoria':'Derrota'}</h1><p class="sub">${won?'Destruiste el Centro urbano rival':'Tu Centro urbano cayó'} · ${Math.floor(t/60)}:${String(t%60).padStart(2,'0')}</p>
+    s.innerHTML=`<div class="wrap"><h1 class="logo" style="color:${won?'#f7dfa4':'#ff8a7a'}">${won?'Victoria':'Derrota'}</h1><p class="sub">${G.relicWin?(won?'Mantuviste el Altar de los Mitos':'Otro jugador mantuvo el Altar de los Mitos'):won?(G.N>2?'Eres el último en pie':'Destruiste el Centro urbano rival'):'Tu Centro urbano cayó'} · ${Math.floor(t/60)}:${String(t%60).padStart(2,'0')}</p>
       <div class="stats"><div><small>Enemigos</small>${G.stats.kills}</div><div><small>Perdidos</small>${G.stats.lost}</div><div><small>Edad</small>${G.team[ME].age>=3?'Hierro':'Bronce'}</div></div>
       <button class="play" id="go">Jugar otra vez</button></div>`;
     $('go').onclick=()=>{ netClose(); showStart(); }; resize(); },1200);
@@ -1332,7 +1382,7 @@ function loop(now){
   const dt=Math.min(.05,(now-last)/1000); last=now;
   $('rotate').hidden = stayV || !G || G.over || SW>=SH;
   if (G){ keyPan(dt); if (NET&&!NET.host&&NET.started) guestFrame(dt); else if (!G.paused&&!G.over) update(dt);
-    if (NET&&NET.host&&NET.started&&!G.over){ NET.acc+=dt; if (NET.acc>=.125){ NET.acc=0; NET.send('s',snap(NET.needFull)); NET.needFull=false; } } draw(); hud(); trayT-=dt; if (trayT<=0){ trayT=.5; renderTray(true); tutTick(); } }
+    if (NET&&NET.host&&NET.started&&!G.over){ NET.acc+=dt; if (NET.acc>=(G.E.length>420?.2:.125)){ NET.acc=0; NET.send('s',snap(NET.needFull)); NET.needFull=false; } } draw(); hud(); trayT-=dt; if (trayT<=0){ trayT=.5; renderTray(true); tutTick(); } }
   requestAnimationFrame(loop);
 }
 resize(); ready.then(()=>{ prepArt(); for (const t in SHEET) buildAnim(t); const pc=new URLSearchParams(location.search).get('p'); if (pc&&ONLINE_OK) showOnline(pc.toUpperCase().slice(0,5)); else showStart(); requestAnimationFrame(loop); });

diff --git a/HANDOFF.md b/HANDOFF.md
@@ -182,8 +182,35 @@ Read this first. It summarizes the project so far so a new conversation can cont
     - It reuses the galley art for now.
   - Not done yet:
     - The computer does not use transports or settle islands.
-    - Online for more than 2 players.
     - Its own art for the transport boat.
+- Online up to 8, bridges, Altar of the Myths, sharper map (2026-11-11, second pass):
+  - Online lobby:
+    - The host creates a room and friends join with the link; the lobby lists everyone with their colour.
+    - The host picks the total number of players (2-8); computers fill the free slots. "Empezar partida"
+      (`netStart`) assigns host = slot 0 and friends in join order.
+    - Presence keys use a stable per-tab id (`PID`) so a reconnect keeps the slot. `start` carries
+      `{civs, ai, map: pid->slot}` and is resent a few times and on a late `hello`.
+    - Guests send `act` as `{t: slot, a}`.
+    - Elimination is broadcast as `out`. An eliminated human keeps watching (the host keeps simulating);
+      `end` closes the match for all.
+    - Snapshots slow to 5 per second above 420 entities.
+    - Tested with 3 emulated phones plus 1 computer slot.
+  - Bridges:
+    - The painted stony fords were replaced by bridge sprites: `bridge-h` for the top and bottom crossings,
+      `bridge-v` for the left and right.
+    - Only the deck band is walkable (`BRIDGES[].band`, cells = 3); the rest of the old ford is water, and
+      boats pass under.
+  - Altar of the Myths (`RELIC`, centre of the ruins, sprite `relic.webp`):
+    - The only team with units within 200 captures it in 20 s.
+    - The owner earns 1.2 gold/s and wins after holding it 8 minutes. Everyone is warned at capture and with
+      2 minutes left; the time left shows in the top bar.
+    - It is synced in snapshots (`rl`).
+  - Nav grid cleaned: thin or isolated open pockets inside forest (not roads, not gold) became forest, so troops
+    no longer walk through trees.
+  - Map tiles:
+    - Computers with a big screen load an 8K set (`map8hd-ij`, 4x2); phones keep the lighter 5.7K set, now
+      lightly sharpened.
+- Online for more than 2 players: done (see above).
 - User feedback still open: the game is hard to read and play; asked to improve graphics.
 - Agreed next steps:
   1. Done: unit animations (procedural from the sprites).
